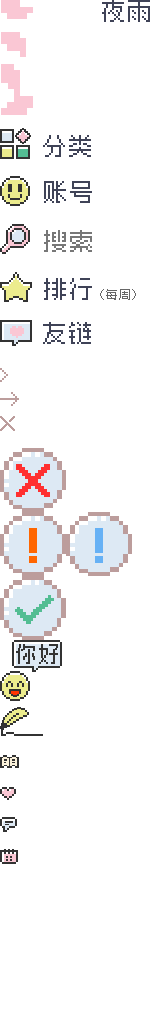
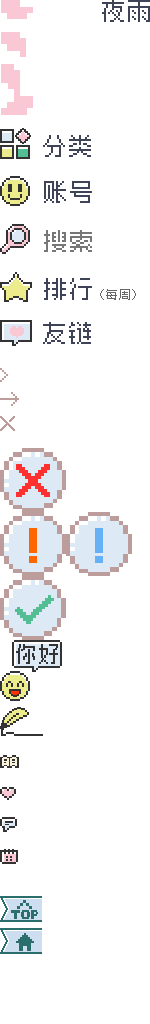
主页和滚动到顶部

Changed region(s): [[0.0, 0.875, 0.2933, 0.9375]]

diff --git a/src/helpers/Scroller.ts b/src/helpers/Scroller.ts
@@ -10,6 +10,8 @@ export class ScrollEvent {
 
 export default class Scroller {
 
+	public top: number = 0;
+
 	events: ScrollEvent[];
 
 	constructor() {
@@ -17,17 +19,19 @@ export default class Scroller {
 
 		window.addEventListener('scroll', () => {
 			// 滚动距离
-			const top = document.body.scrollTop || window.pageYOffset || document.documentElement.scrollTop;
+			this.top = document.body.scrollTop || window.pageYOffset || document.documentElement.scrollTop;
 			// 可视高度
 			const wH = document.documentElement.clientHeight || document.body.clientHeight;
 			// 滚动高度
 			const sH = document.documentElement.scrollHeight || document.body.scrollHeight;
+			// 遍历事件
 			for (const e of this.events) {
-				e.event(top, (top + wH === sH));
+				e.event(this.top, (this.top + wH === sH));
 			}
 		}, true);
 	}
 
+	// 添加事件
 	add(name: string, event: Function) {
 		const e = this.events.find((se) => se.name === name);
 		if (e) {
@@ -37,8 +41,22 @@ export default class Scroller {
 		}
 	}
 
+	// 移除事件
 	remove(name: string) {
 		const e = this.events.findIndex(se => se.name === name);
 		delete this.events[e];
+	}
+
+	// 滚动至顶
+	toTop() {
+		const timer = setInterval(() => {
+			this.top -= this.top / 8;
+			if (this.top > 3) {
+				window.scrollTo(0, this.top);
+			} else {
+				window.scrollTo(0, 0);
+				clearInterval(timer);
+			}
+		}, 1000 / 90);
 	}
 }

diff --git a/src/layout/Side.vue b/src/layout/Side.vue
@@ -95,11 +95,16 @@
 					<a title="赵羿杰的博客" href="http://39.106.104.78:8080/blog/" target="_blank">赵羿杰</a>
 				</div>
 			</div>
+			<div class="ctrls">
+				<div class="ctrl to-top" @click="toTop"></div>
+				<div class="ctrl home" @click="home"></div>
+			</div>
 		</div>
 	</aside>
 </template>
 <script lang="ts">
 import { defineComponent } from 'vue';
+import { sleep } from '@/helpers/Toolkit';
 
 export default defineComponent({
 	props: {
@@ -113,6 +118,18 @@ export default defineComponent({
 		} {
 		return {
 			searchKey: ''
+		}
+	},
+	methods: {
+		toTop() {
+			this.$store.state.scroller.toTop();
+		},
+		async home() {
+			this.toTop();
+			if (this.$route.name !== 'Home') {
+				await sleep(600);
+				this.$router.push('/');
+			}
 		}
 	},
 	mounted() {
@@ -445,4 +462,33 @@ export default defineComponent({
 		text-align: left;
 		padding-top: 4px;
 	}
+
+	.ctrls {
+		height: 64px;
+		display: flex;
+		margin-top: 3rem;
+		align-items: flex-end;
+		flex-direction: column;
+		justify-content: space-between;
+	}
+
+	.ctrls .ctrl {
+		width: 42px;
+		height: 26px;
+		cursor: var(--pointer);
+		background: var(--random-icon);
+	}
+
+	.ctrls .ctrl:active {
+		width: 39px;
+	}
+
+	.ctrls .to-top {
+		background-position: 0 -896px;
+	}
+
+	.ctrls .home {
+		background-position: 0 -928px;
+	}
+
 </style>
